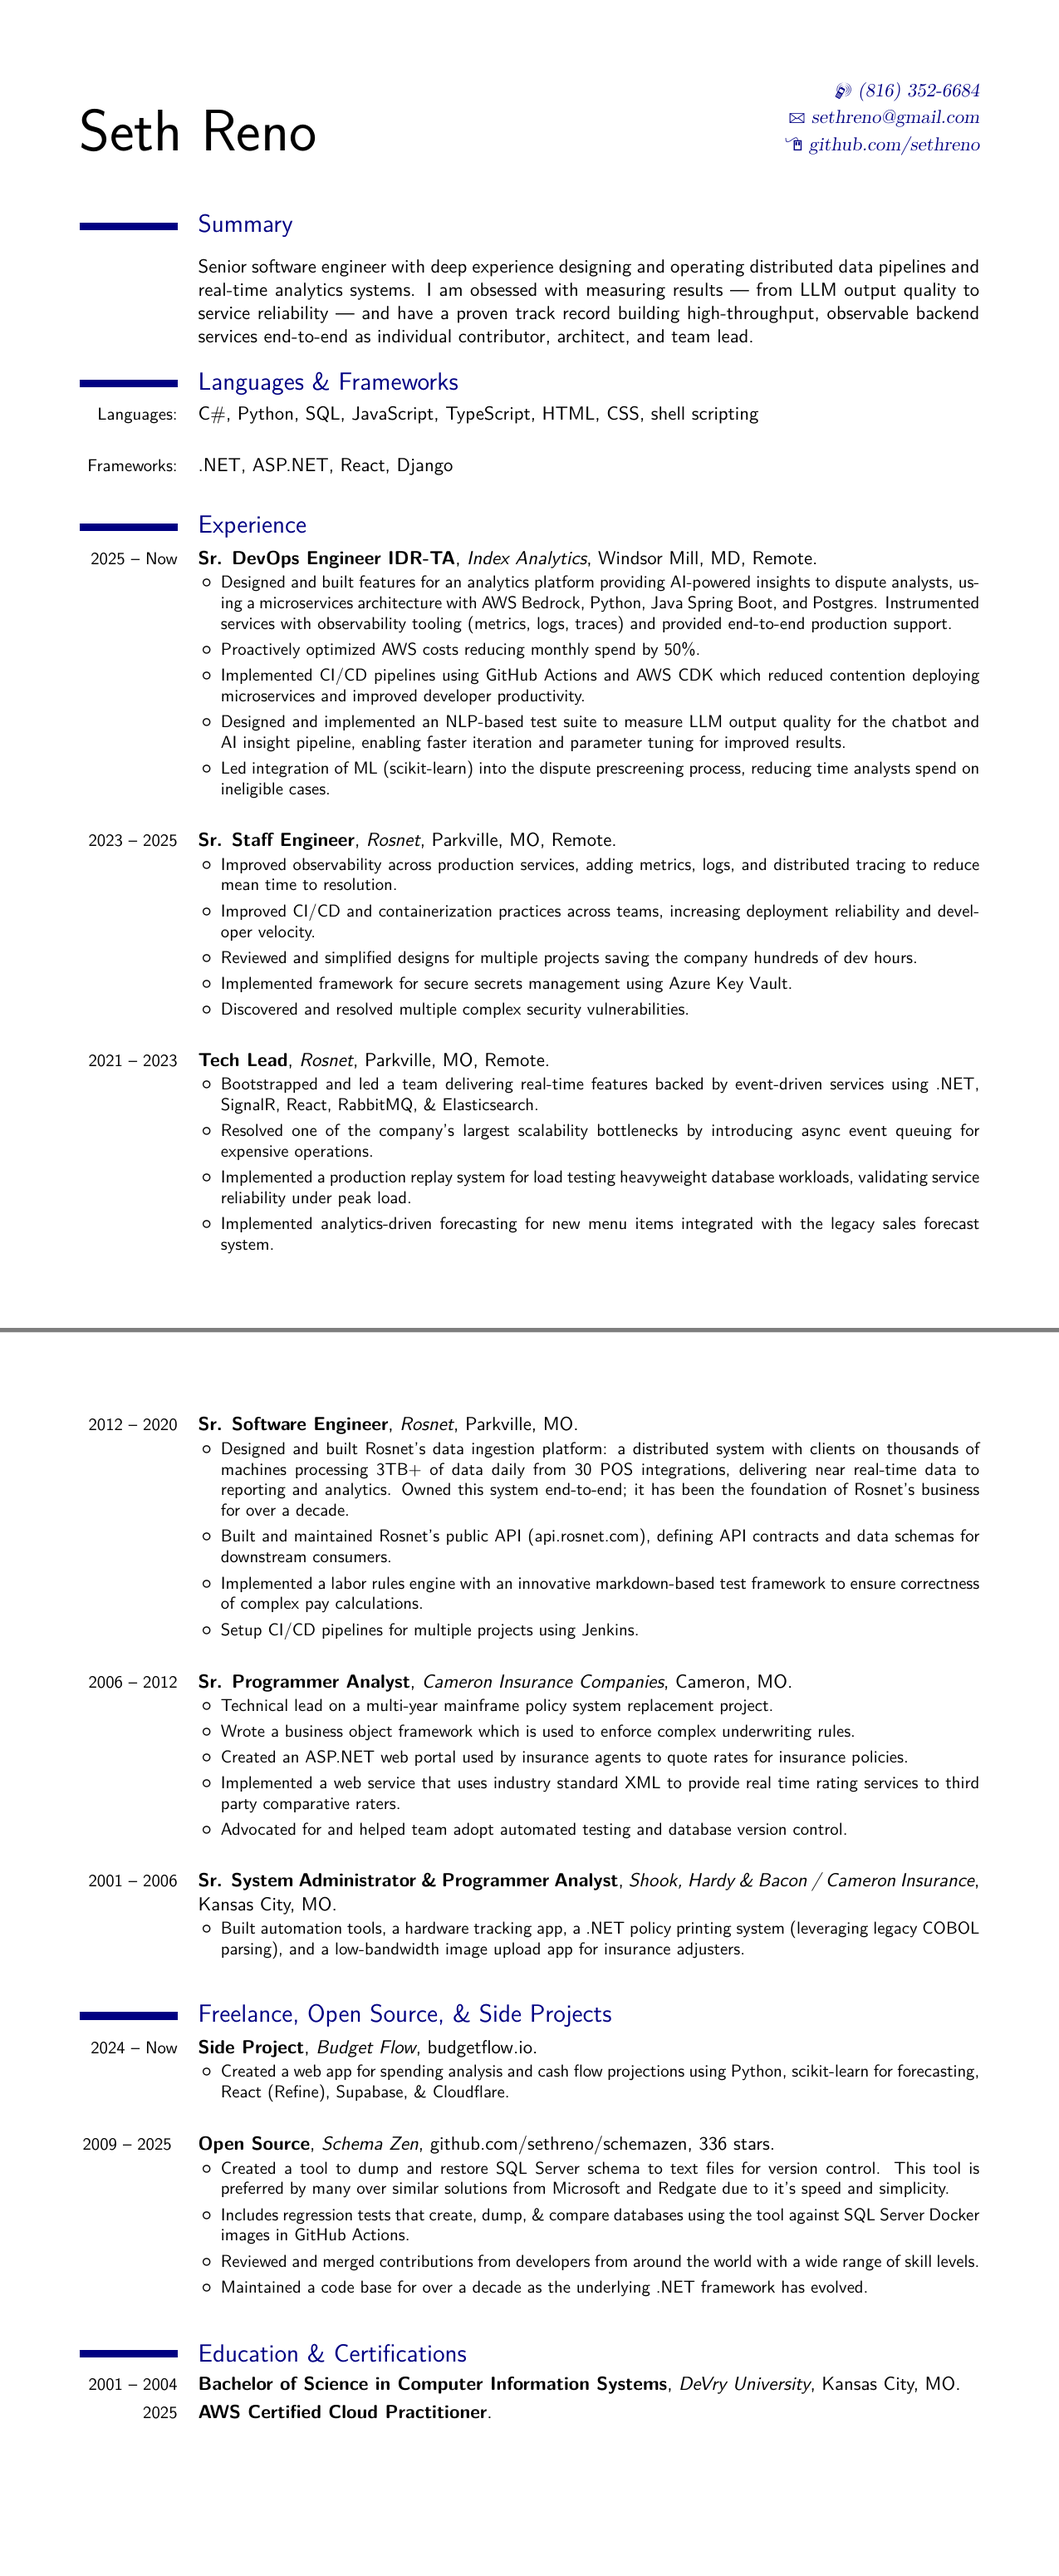
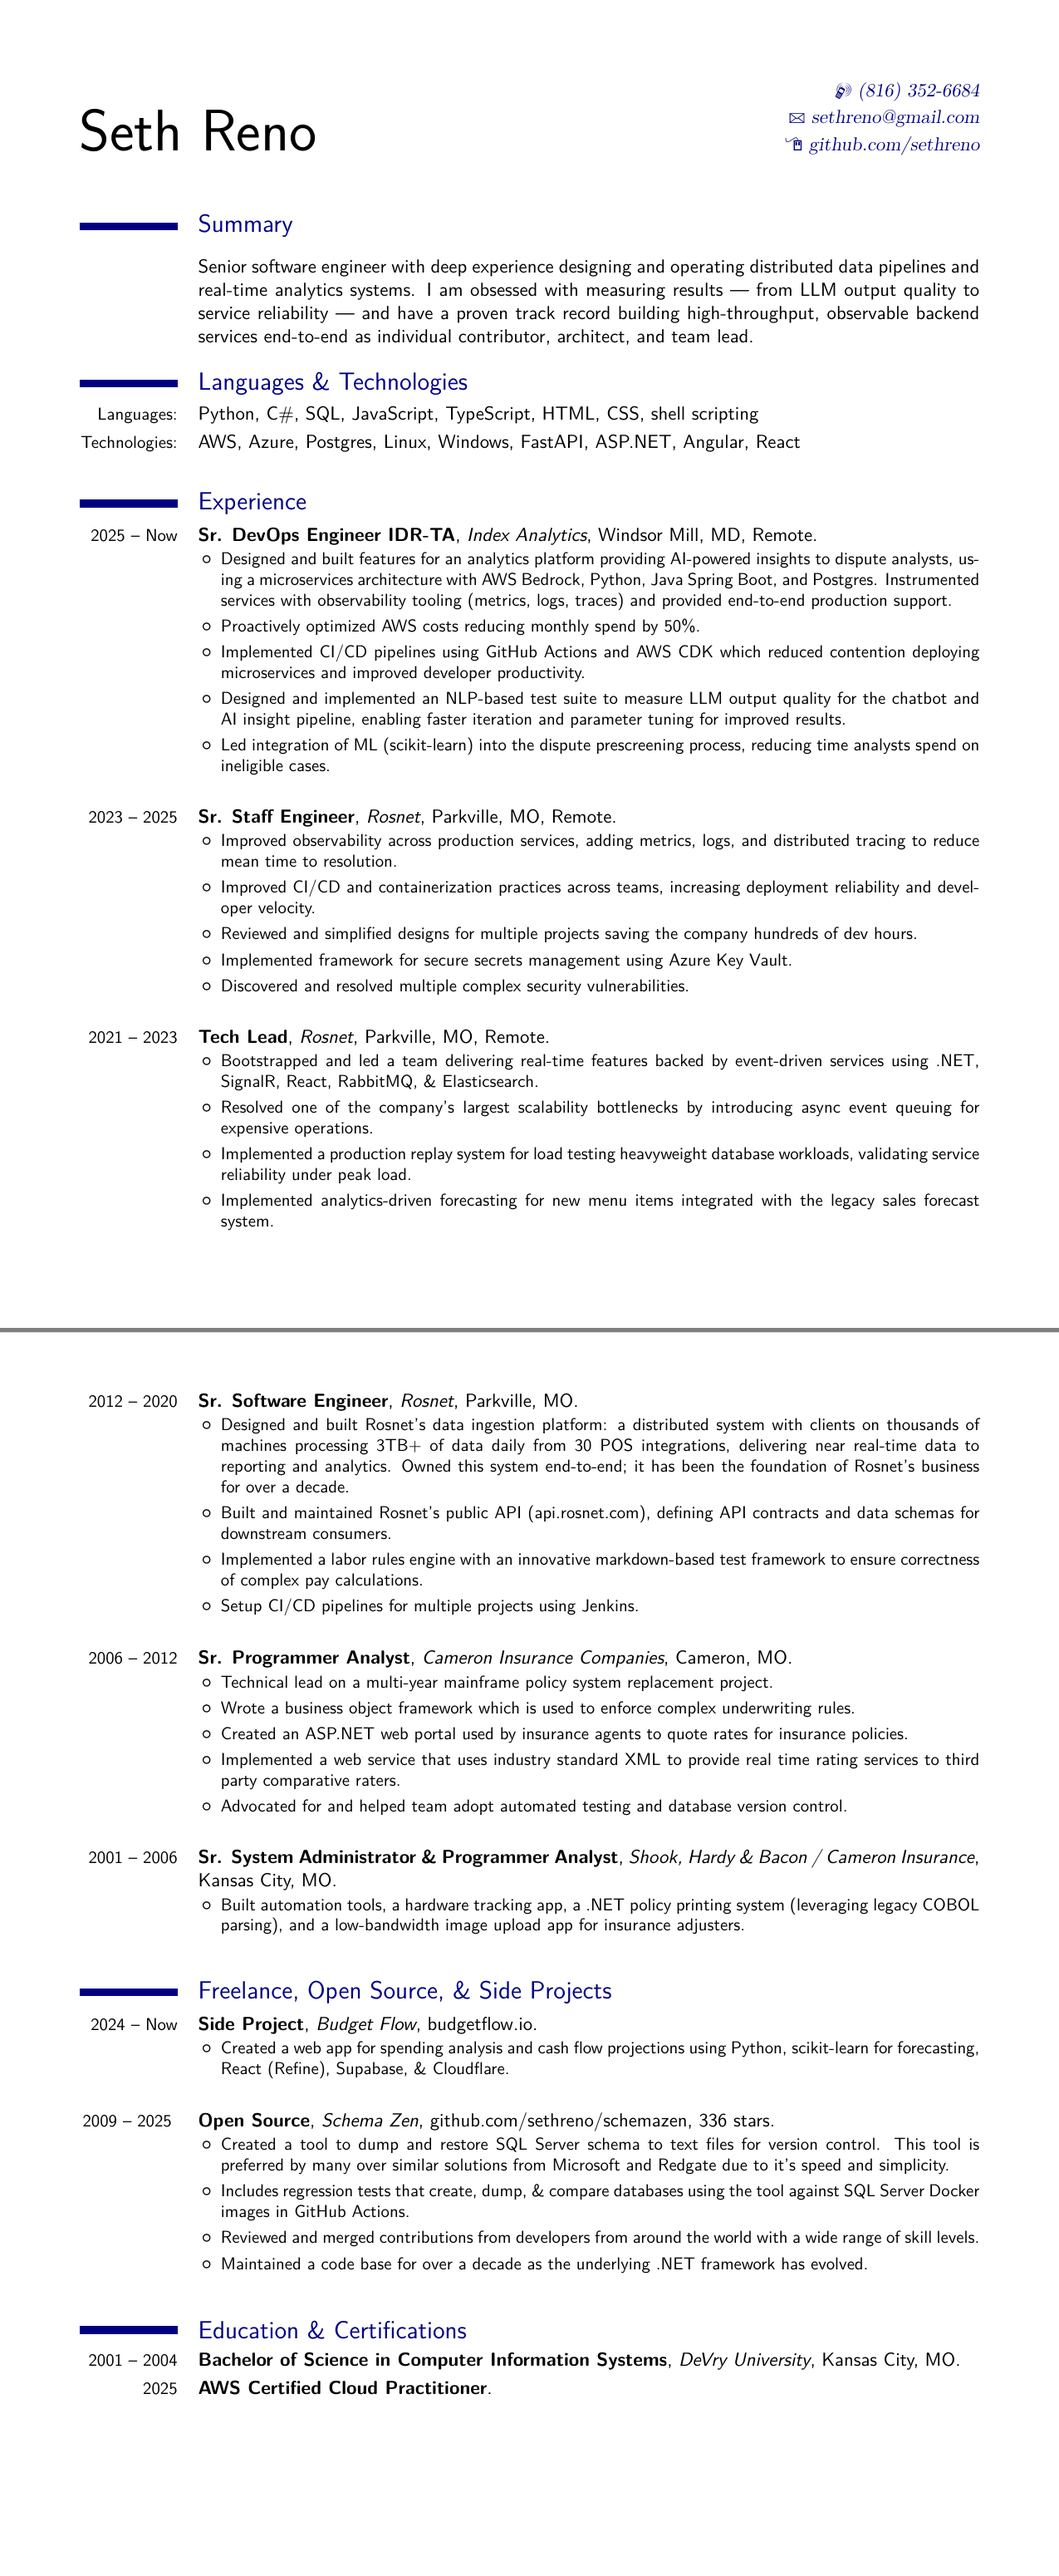
Tweaked Languages and Frameworks section

diff --git a/src/resume.tex b/src/resume.tex
@@ -56,12 +56,11 @@ track record building high-throughput, observable backend services end-to-end
 as individual contributor, architect, and team lead.
 }
 
-\section{Languages \& Frameworks}
+\section{Languages \& Technologies}
 	\cvline {Languages:}
-		{C\#, Python, SQL, JavaScript, TypeScript, HTML, CSS, shell scripting}
-\linebreak
-	\cvline {Frameworks:}
-		{.NET, ASP.NET, React, Django}
+		{Python, C\#, SQL, JavaScript, TypeScript, HTML, CSS, shell scripting}
+	\cvline {Technologies:}
+		{AWS, Azure, Postgres, Linux, Windows, FastAPI, ASP.NET, Angular, React}
 
 \section{Experience} 
 	\cventry
